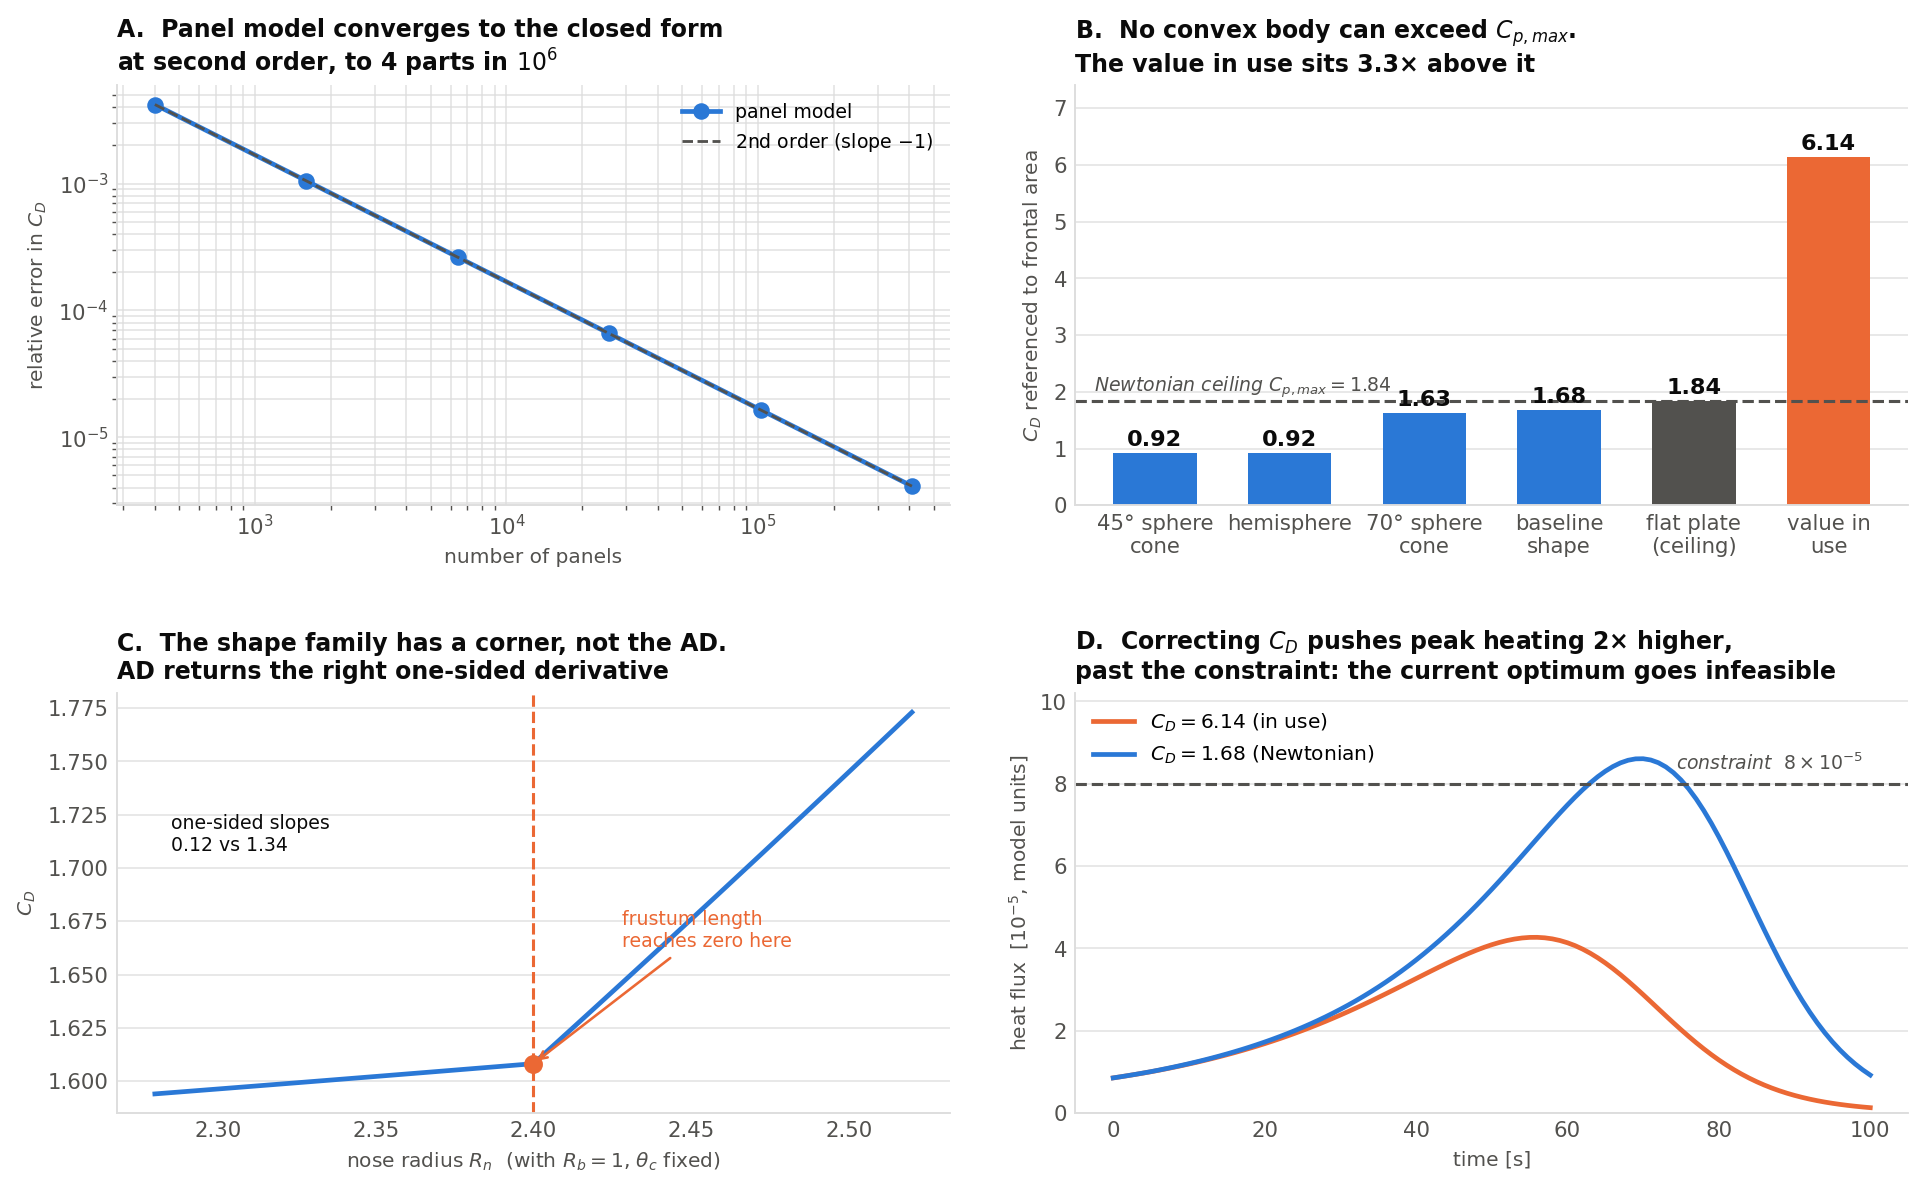
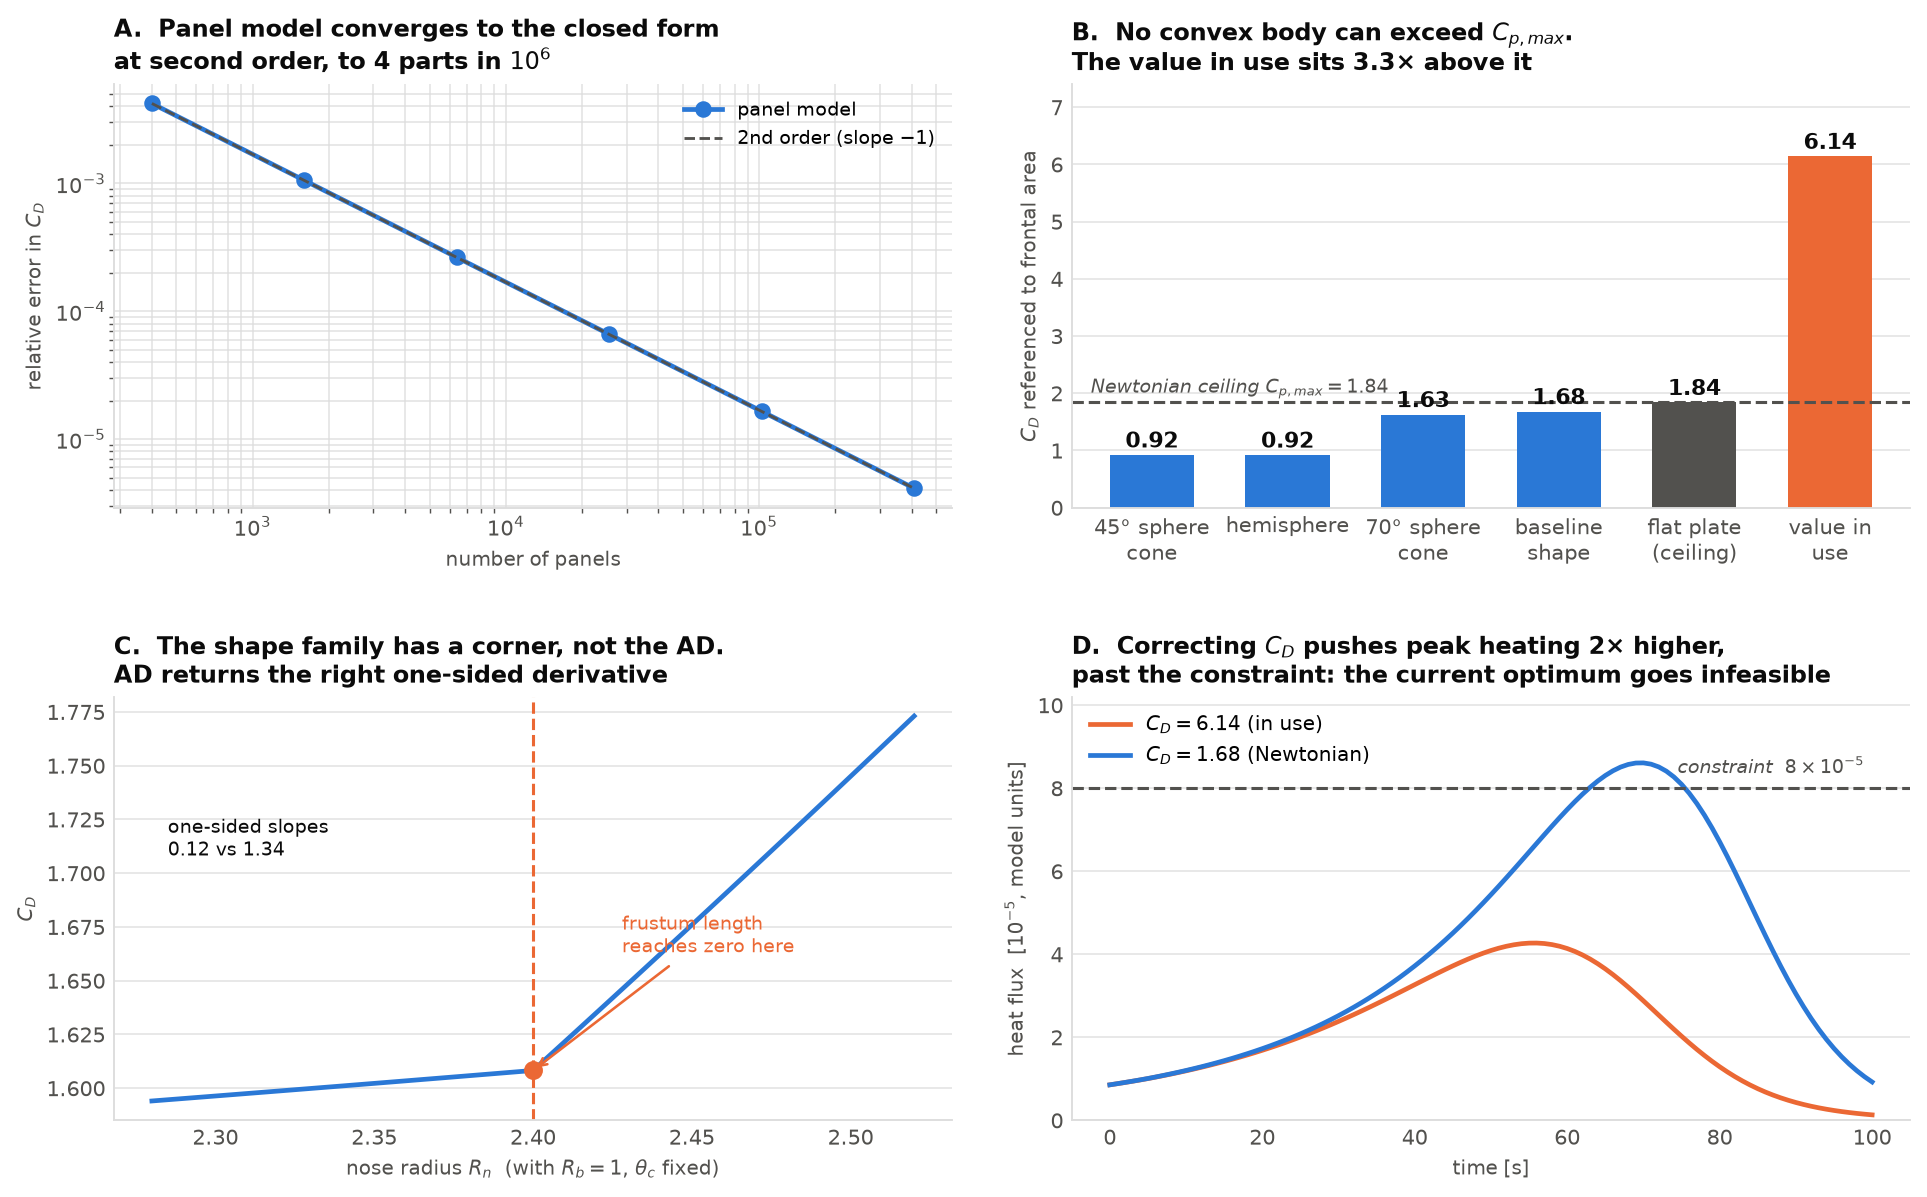
Newtonian aerodynamics model, validation, and C_D analysis

diff --git a/check_forward.py b/check_forward.py
@@ -1,0 +1,18 @@
+import numpy as np
+import csdl_alpha as csdl
+
+print("csdl_alpha version:", getattr(csdl, "__version__", "unknown"))
+
+rec = csdl.Recorder(inline=True)
+rec.start()
+x = csdl.Variable(value=np.array([3.0]))
+y = x ** 2
+try:
+    d = csdl.derivative(ofs=y, wrts=x, mode="forward")
+    val = d[x] if isinstance(d, dict) else d
+    print("FORWARD MODE WORKS. dy/dx =", float(np.ravel(val.value)[0]), "(exact 6.0)")
+except NotImplementedError as e:
+    print("FORWARD MODE NOT IMPLEMENTED:", e)
+except Exception as e:
+    print("forward mode failed with", type(e).__name__, ":", e)
+rec.stop()
